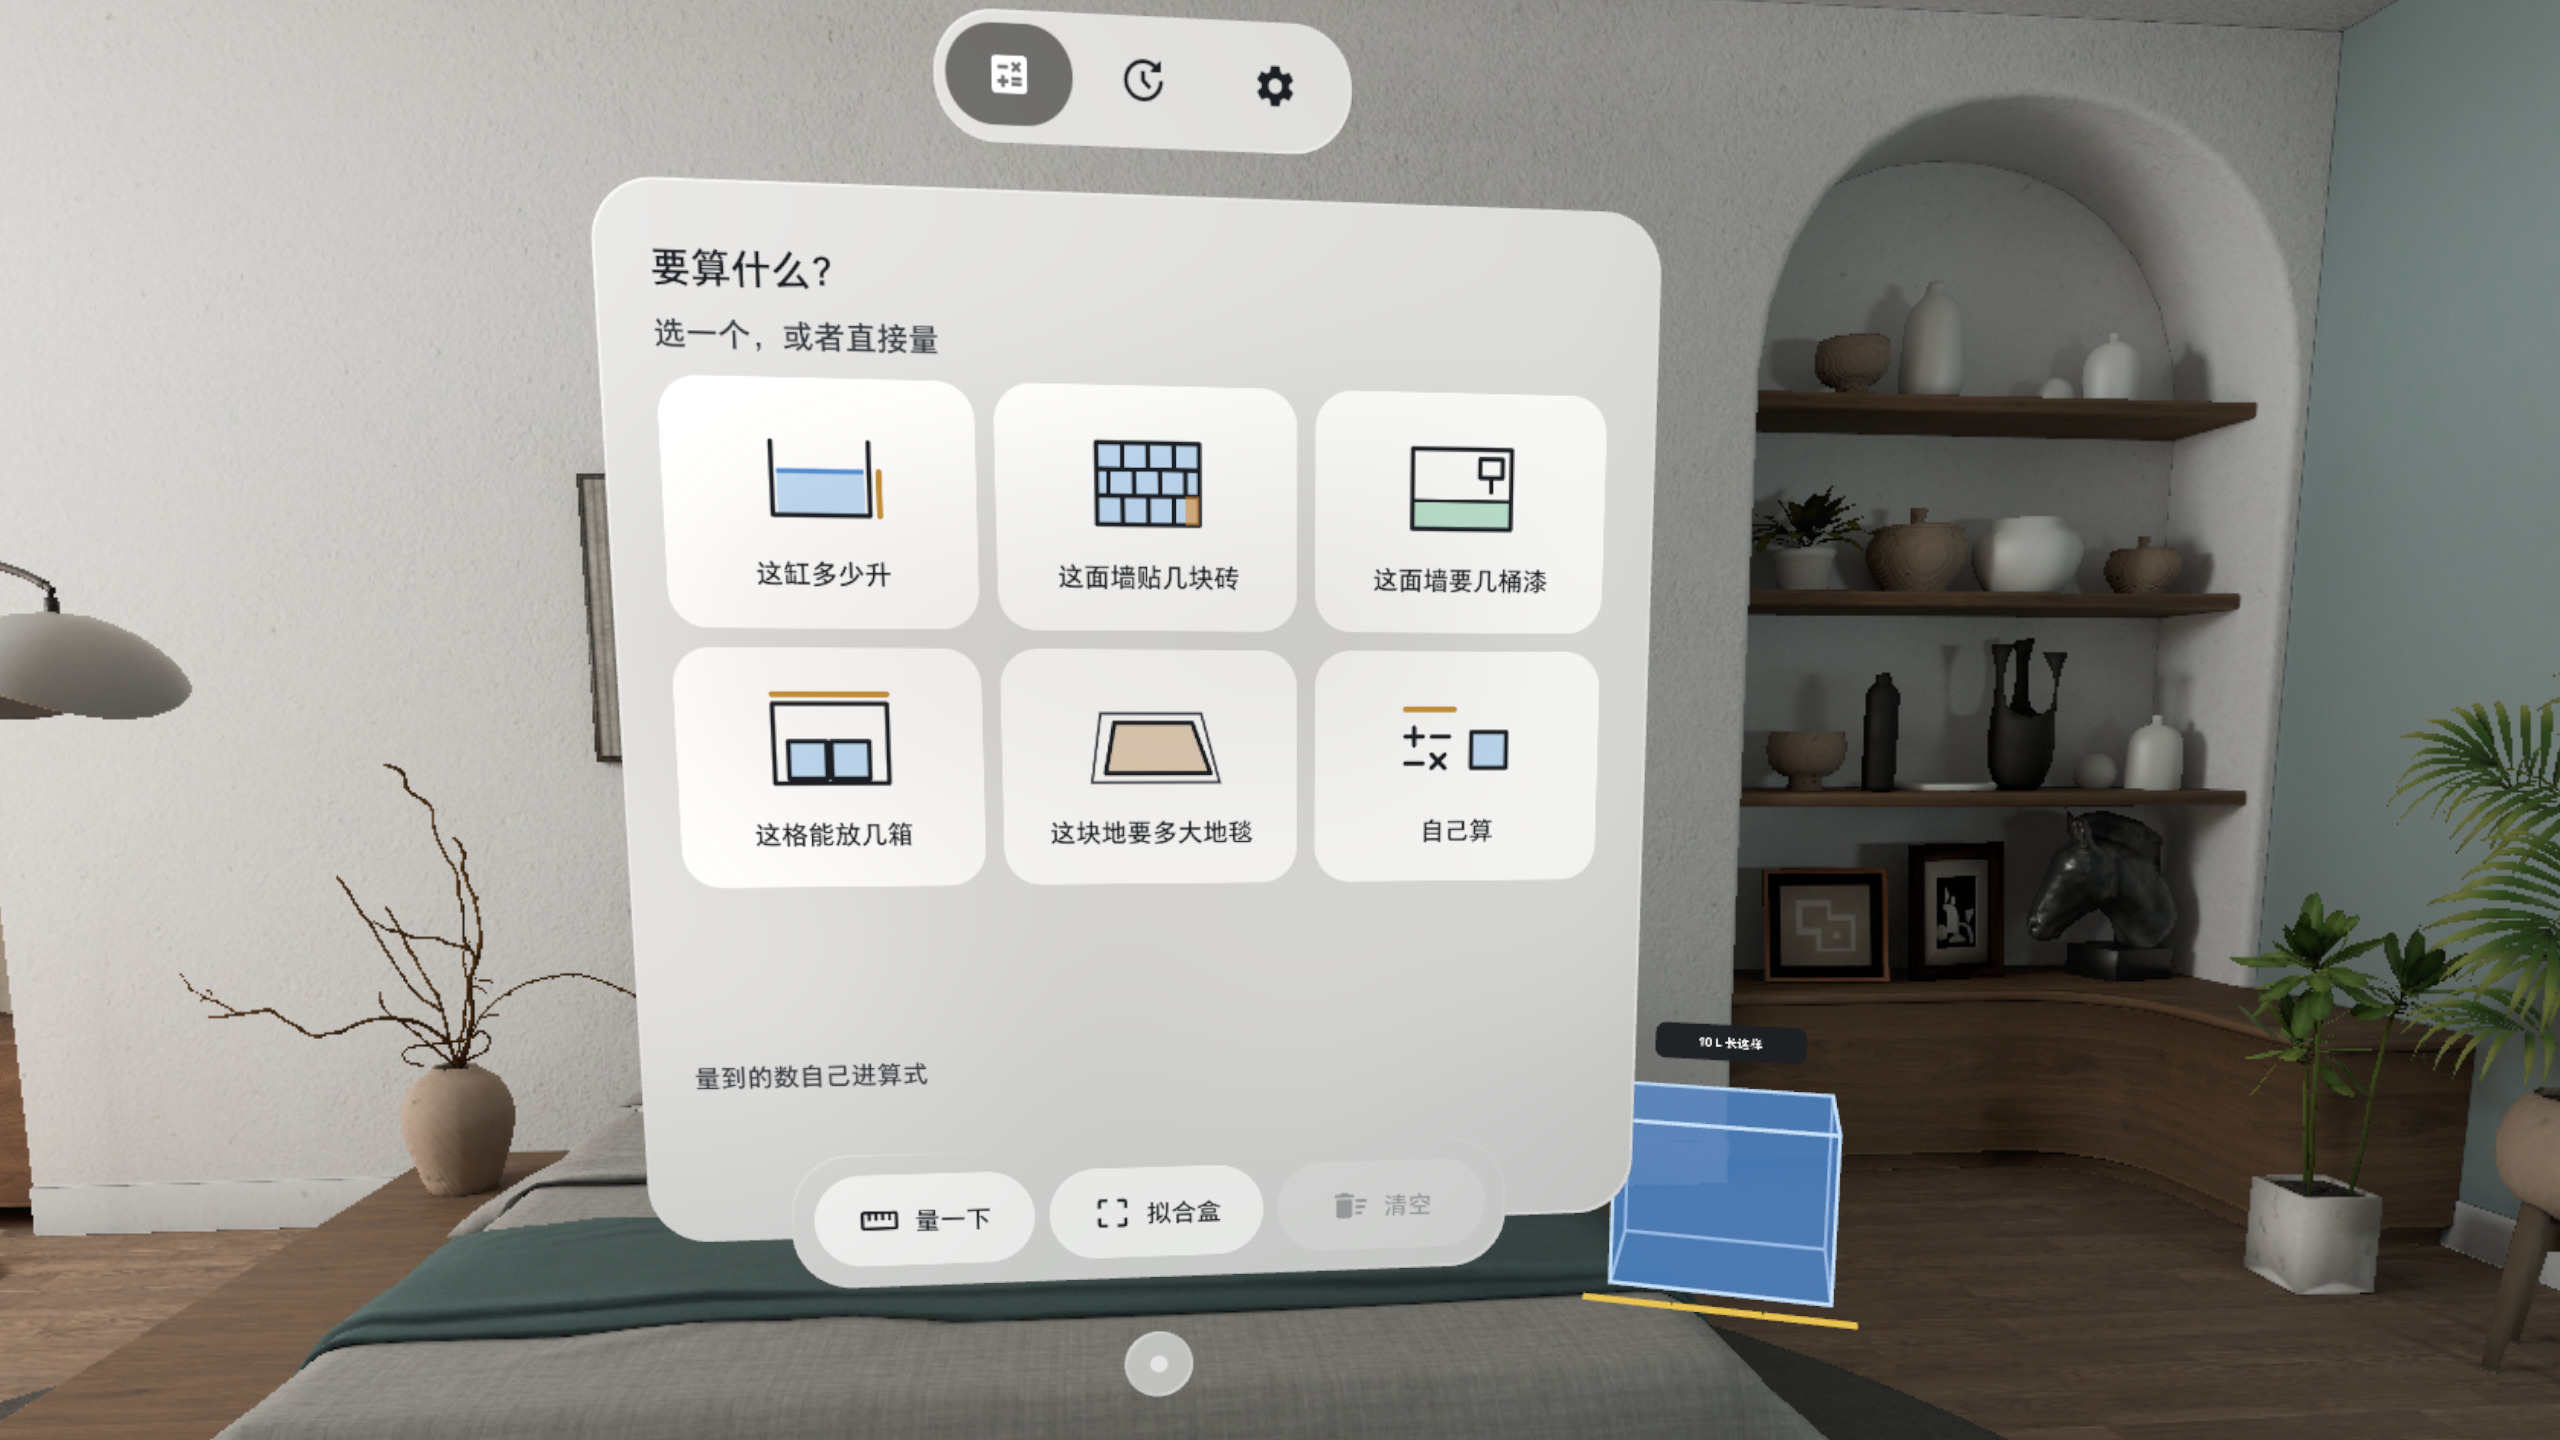
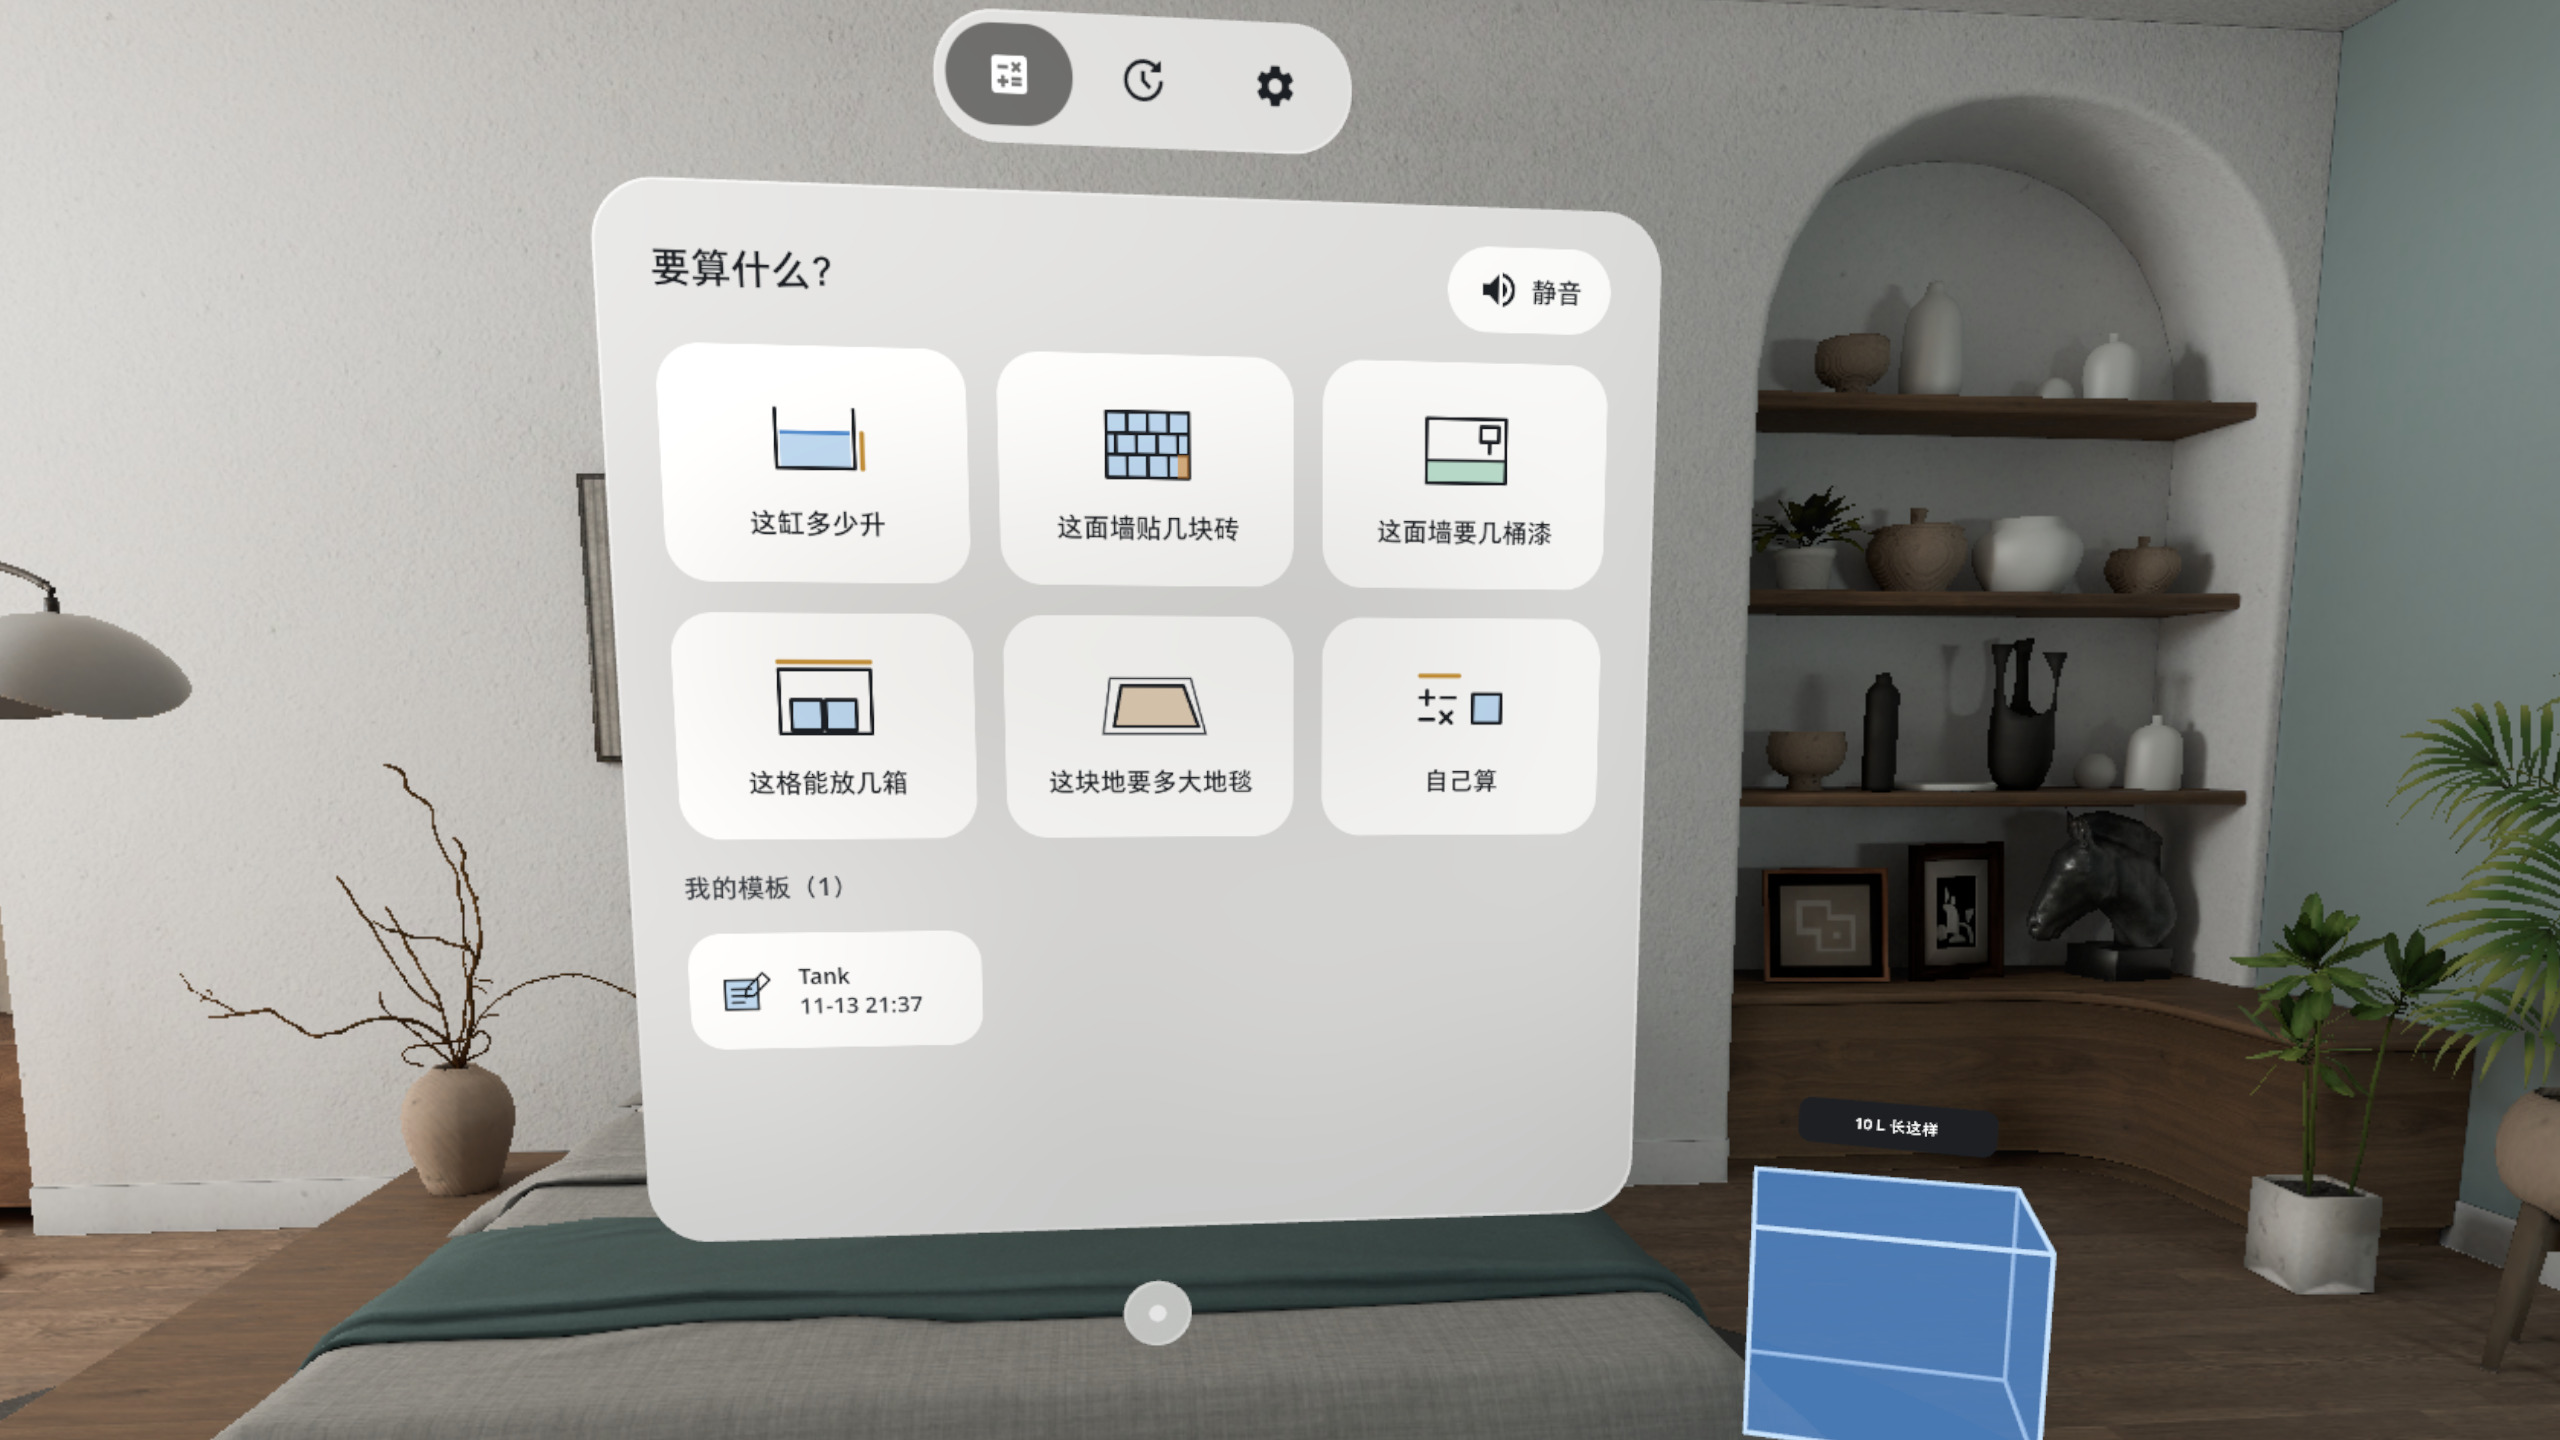
v0.1.6: README / CHANGELOG, v0.1.6 emulator screenshots and posters (docs/)

Changed region(s): [[0.25, 0.1562, 0.625, 0.7812], [0.625, 0.6875, 0.8125, 1.0], [0.3125, 0.8125, 0.5938, 0.9688]]

diff --git a/README.md b/README.md
@@ -2,7 +2,7 @@
 
 ![空间计算器 Spatial Calculator](docs/poster.jpg)
 
-[中文](#中文) · [English](#english)
+[中文](#中文) · [English](#english) · 当前版本 / Current version: **v0.1.6** · [CHANGELOG](CHANGELOG.md)
 
 ## 中文
 
@@ -14,11 +14,11 @@ PICO OS 6 混合现实应用（PICO Spatial SDK 6.1.9）：Stage 透视场景放
 
 | | |
 |---|---|
-| ![这缸多少升](docs/shot-01.jpg) 这缸多少升：点两下量了三边，按 = 一块 1:1 水块长在量的地方旁边 | ![要算什么](docs/shot-02.jpg) 六件常用的事，或者自己写算式 |
-| ![贴砖](docs/shot-03.jpg) 这面墙贴几块砖：砖面直接贴在墙上，18 块 · 多买 2 块 | ![拟合盒](docs/shot-04.jpg) 这格能放几箱：拟合盒对齐柜格，幽灵箱码进格子 |
-| ![粘贴](docs/shot-05.jpg) 粘贴商品页的「60×30×35 cm」自动拆成三个数 | ![记录](docs/shot-06.jpg) 记录：重放实体、钉住、带到面前、存成模板 |
+| ![这缸多少升](docs/shot-01.jpg) 这缸多少升：点两下量了三边，按 = 一块 1:1 水块长在量的地方旁边 | ![要算什么](docs/shot-02.jpg) 要算什么：六件常用的事，或者自己写算式 |
+| ![贴砖](docs/shot-03.jpg) 这面墙贴几块砖：砖面直接贴在墙上，18 块 · 多买 2 块 | ![拟合盒](docs/shot-04.jpg) 这格能放几箱：拟合盒对齐柜格，幽灵箱码进格子，放得下 30 箱 |
+| ![粘贴](docs/shot-05.jpg) 粘贴商品页的「60×30×35 cm」自动拆成三个数，底栏 [粘贴][✓ 收起] 固定 | ![记录](docs/shot-06.jpg) 记录：每次量算一张卡，重放实体；钉住、存成模板在「⋯ 更多」里 |
 
-截图在模拟器上拍，3D 操作由调试广播驱动，**非真实手势录像**。
+截图是 v0.1.6 在模拟器上拍的，3D 操作由调试广播驱动，**非真实手势录像**。
 
 ### 能算什么
 
@@ -32,7 +32,8 @@ PICO OS 6 混合现实应用（PICO Spatial SDK 6.1.9）：Stage 透视场景放
 
 - 对着东西点两下落钉（手柄射线或眼动 + 捏合）；也可以键盘打数或粘贴尺寸
 - 结果体可以拖过去比一比，摇杆左右转；钉住后下次打开还在原处
-- 记录页存下每次量算；公制 / 英制、L / gal 随时切；静音开关；设置里可以退出应用
+- 每页只留要用的几个键，不常用的收进「⋯ 更多」；静音键一直在
+- 记录页存下每次量算；公制 / 英制、L / gal 随时切；设置里可以重开面板、退出应用
 - 中英双语，全部本机运行，不联网、不需要账号
 
 ### 安装
@@ -46,7 +47,7 @@ adb install -r app/build/outputs/apk/debug/app-debug.apk
 pico-cli app launch io.embodit.spatialcalc
 ```
 
-已知问题：没有手柄射线时（如模拟器）拟合盒开在视野右下角，要转头看；关窗后的「打开面板」按钮风格和应用其他按钮不统一；英文记录页单数写成「1 cards」。v0.1.1 还没在头显上验过。
+已知问题：选活页存了模板后可点控件 17–18 个（题目 + 模板本身是内容）。v0.1.6 已装到头显，还没戴上验：每个手柄只一条射线、眼手捏合落钉、拖结果体、外放响度。
 
 ## English
 
@@ -59,10 +60,10 @@ A PICO OS 6 mixed-reality app (PICO Spatial SDK 6.1.9): a passthrough Stage for 
 | | |
 |---|---|
 | ![Tank](docs/shot-en-01.jpg) How many liters in this tank: three sides measured, = grows a 1:1 water block beside it | ![Pick](docs/shot-en-02.jpg) Six everyday jobs, or write your own formula |
-| ![Tiles](docs/shot-en-03.jpg) Tiles for this wall: the tiles sit on the wall, 18 tiles, grab 2 extra | ![Fit box](docs/shot-en-04.jpg) How many boxes fit: a fit box lines up with the cell, ghost boxes stack inside |
-| ![Paste](docs/shot-en-05.jpg) Paste "60x30x35 cm" from a product page and it splits into three numbers | ![Records](docs/shot-en-06.jpg) Records: show again, pin, bring in front, save as template |
+| ![Tiles](docs/shot-en-03.jpg) Tiles for this wall: the tiles sit on the wall, 18 tiles, grab 2 extra | ![Fit box](docs/shot-en-04.jpg) How many boxes fit: a fit box lines up with the cell, 30 ghost boxes stack inside |
+| ![Paste](docs/shot-en-05.jpg) Paste "60x30x35 cm" from a product page and it splits into three numbers; [Paste] / [✓ Done] stay on the bottom bar | ![Records](docs/shot-en-06.jpg) Records: one card per calculation, show it again; pin and save as template under "⋯ More" |
 
-Screenshots were taken on the emulator; 3D input was driven by debug broadcasts, **not a recording of real hand input**.
+Screenshots are v0.1.6 on the emulator; 3D input was driven by debug broadcasts, **not a recording of real hand input**.
 
 ### What it does
 
@@ -76,7 +77,8 @@ Screenshots were taken on the emulator; 3D input was driven by debug broadcasts,
 
 - Tap two points to drop pins (controller ray or gaze + pinch); or type / paste sizes
 - Drag a result body to compare, turn it with the thumbstick; pin it and it is still there next time
-- Records keep every calculation; metric / imperial, L / gal; mute switch; Quit app in Settings
+- Each page keeps only the buttons you need; the rest live under "⋯ More"; Mute is always there
+- Records keep every calculation; metric / imperial, L / gal; Reopen panel and Quit app in Settings
 - Chinese and English, fully offline, no account
 
 ### Install
@@ -90,7 +92,7 @@ adb install -r app/build/outputs/apk/debug/app-debug.apk
 pico-cli app launch io.embodit.spatialcalc
 ```
 
-Known issues: without a controller ray (e.g. on the emulator) the fit box opens at the lower right and you have to turn your head; the "Open panel" button after closing the window does not match the other buttons; the English records page says "1 cards". v0.1.1 has not been tested on a headset yet.
+Known issues: with saved templates the pick page has 17–18 tappable items (the jobs and templates are the content). v0.1.6 is installed on a headset but not yet checked there: one ray per controller, gaze + pinch pins, dragging result bodies, speaker loudness.
 
 ## Credits
 

diff --git a/CHANGELOG.md b/CHANGELOG.md
@@ -1,0 +1,28 @@
+# Changelog · 更新记录
+
+## v0.1.6 (2026-11-13)
+
+中文：
+- 界面精简：计算页可点控件 16–18 → 6–7 个，记录页 12 → 6，设置 19 → 9；不常用的操作收进「⋯ 更多」。
+- 静音常显：选活页、计算页、键盘页、设置首屏都有静音键，一点就切。
+- 键盘页底栏固定：英文界面下 [Paste] / [✓ Done] 不再被挤出面板，尺寸块改两列。
+- 默认模板名改成题目短名 + 日期（如「这缸多少升 11-13 21:30」/「Tank 11-13 21:30」），模板块里完整显示。
+- 所有并排可点元素间距统一 16 dp，题目卡 120 dp，中英两行标签完整。
+- 圆缸算式条读作 π·(½·直径)²×水深，结果正确。
+- 去掉应用自己画的手柄射线，只用系统射线（每个手柄只一条）。
+- 钉住后主按钮回到「接着量一个」；记录卡「存成模板」走起名，可取消；示例块避开钉住的结果体。
+
+English:
+- Simpler screens: the calculator page goes from 16–18 tappable controls to 6–7, records 12 → 6, settings 19 → 9; rarely used actions moved into "⋯ More".
+- Mute is always visible on the pick, calculator, keypad and settings pages.
+- Keypad bottom bar is fixed: [Paste] / [✓ Done] no longer get pushed out in English; size chips in two columns.
+- Default template names are short job names plus the date ("Tank 11-13 21:30"), shown in full.
+- 16 dp between all side-by-side tappable elements; job cards 120 dp with full two-line labels.
+- Round tank formula strip reads π·(½·diameter)²×depth with the correct result.
+- The app no longer draws its own controller ray; only the system ray is shown (one per controller).
+- After pinning, the main button goes back to "Measure another"; saving a record as a template asks for a name and can be cancelled; the demo block keeps clear of pinned bodies.
+
+## v0.1.1 (2026-11-11)
+
+- 第一个发布版：模拟器 QA 第 1 轮 10 条全修（粘贴尺寸缩小 100 倍、吸附已有钉、[带到面前]、拟合盒位置、芯片栏换行等）。
+- First release: all 10 findings from emulator QA round 1 fixed (pasted size shrinking 100×, snap to existing pins, Bring in front, fit box placement, chip row wrapping, and more).
